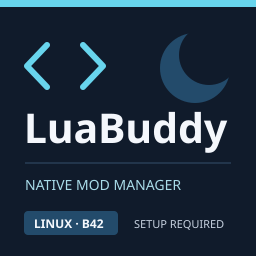
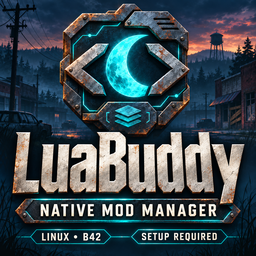
Replace Workshop cover with generated survival-tech artwork

diff --git a/workshop/artwork.md b/workshop/artwork.md
@@ -1,0 +1,19 @@
+# LuaBuddy Workshop cover
+
+The full-resolution source is [cover-master.png](cover-master.png). The published Workshop preview is [preview.png](preview.png), a 256 by 256 PNG derived from that source. The user requested a new cover with the image creator skill and authorized replacing and republishing the existing image.
+
+Generated with the built-in `image_gen` tool. No API-key CLI fallback was used. The generation output was copied into the repository, then downscaled with ImageMagick for the game's required preview format. The obsolete vector preview source was removed so future updates use this master.
+
+## Exact generation prompt
+
+```text
+Use case: ads-marketing.
+Asset type: final square Steam Workshop cover art for LuaBuddy, a Rust-native mod manager for Project Zomboid.
+Primary request: replace a plain thumbnail with exceptionally cool, polished survival-tech game key art while remaining readable at 256 by 256 pixels.
+Scene/backdrop: a moody, abandoned Kentucky town at dusk, distant rooftops, power lines, dark pine silhouettes and thin atmospheric haze. Keep this backdrop subdued and clearly secondary.
+Subject: a bold central emblem combining a luminous cyan crescent moon with the angular programming brackets < >. Give the emblem the tactile presence of a carefully crafted weathered steel badge with subtle copper/rust edges and cyan light spilling through the seams. Abstract modular plates and a few restrained interface traces suggest mod management. No literal UI screenshot.
+Style/medium: premium illustrated game-poster key art, crisp silhouette, richly textured brushed metal and worn enamel, controlled cinematic lighting, sharp focal point, high contrast, professional typography. Exciting and memorable rather than cluttered.
+Composition: square, full bleed. The emblem dominates the upper half. A huge exceptionally legible wordmark dominates the lower middle, with generous safe margins. Readability and a strong silhouette at thumbnail size are critical. The town fades into deep midnight navy; cyan is the primary accent, with restrained warm amber/rust highlights.
+Text, exactly and only: "LuaBuddy" as the very large primary title in bold condensed bone-white lettering with a subtle dimensional metal finish, correctly spelled L-u-a-B-u-d-d-y. Beneath it, "NATIVE MOD MANAGER". Small clear footer labels: "LINUX • B42" and "SETUP REQUIRED". Use strong hierarchy; no additional slogans or text.
+Constraints: produce one finished standalone square raster cover at high resolution. All required lettering fully inside the frame. No Project Zomboid official logo, Steam logo, Rust gear logo, borrowed mascots, watermark, busy code blocks, tiny unreadable microtext, gore, or gratuitous characters. Preserve the LuaBuddy navy/cyan identity while making the presentation feel far more dramatic and crafted.
+```

diff --git a/docs/publishing.md b/docs/publishing.md
@@ -2,7 +2,7 @@
 
 The [LuaBuddy Workshop item](https://steamcommunity.com/sharedfiles/filedetails/?id=3838682402) supplies a verified native Linux package and its graphical setup guide. Players extract the included archive and open `luabuddy` without terminal commands or another download. One-time activation remains separate from subscription. Native updates require opening the newly extracted package and applying the update, and unsubscribing alone does not uninstall the native integration.
 
-The tracked [workshop folder](../workshop) owns the listing text, preview, and guide. `workshop.txt` is the description's source of truth. `preview.svg` is the editable preview source. Generate the required 256 by 256 PNG with `rsvg-convert workshop/preview.svg -o workshop/preview.png` when changing it. The existing item ID and [workshop-publisher.json](../workshop-publisher.json) keep updates attached to the same item. Do not create another item for routine updates.
+The tracked [workshop folder](../workshop) owns the listing text, preview, and guide. `workshop.txt` is the description's source of truth. [cover-master.png](../workshop/cover-master.png) is the full-resolution generated cover, and [artwork.md](../workshop/artwork.md) records its exact prompt and tool. Generate the required 256 by 256 PNG with `magick workshop/cover-master.png -resize 256x256 -strip workshop/preview.png` when changing it. The existing item ID and [workshop-publisher.json](../workshop-publisher.json) keep updates attached to the same item. Do not create another item for routine updates.
 
 The tracked folder does not contain generated native binaries. Upload the staged Workshop folder produced below. Uploading the raw tracked folder would omit the native setup package.
 
